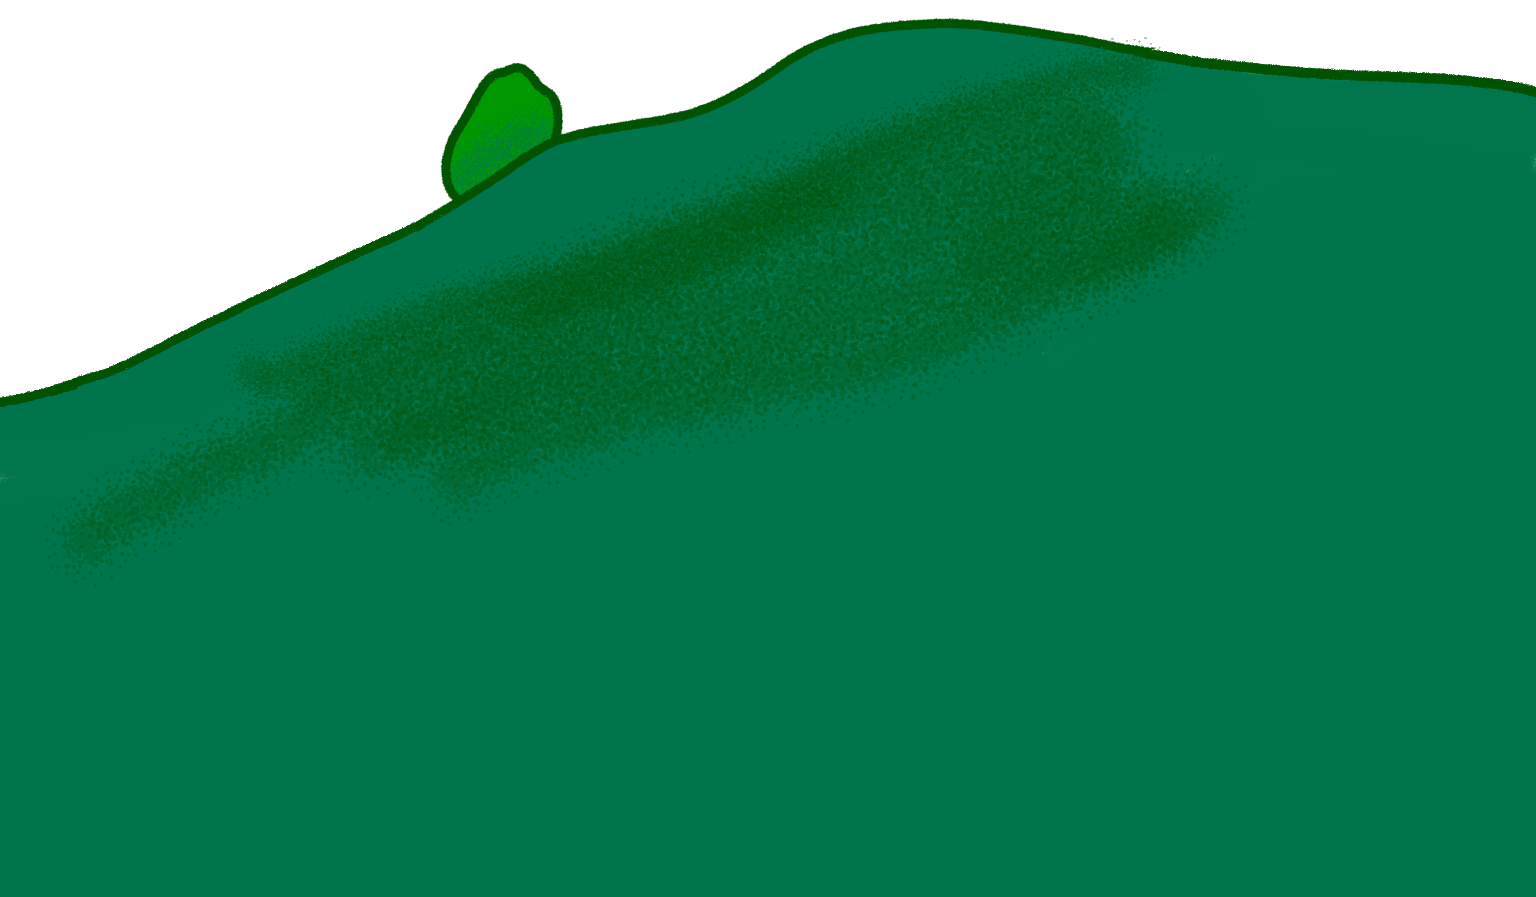
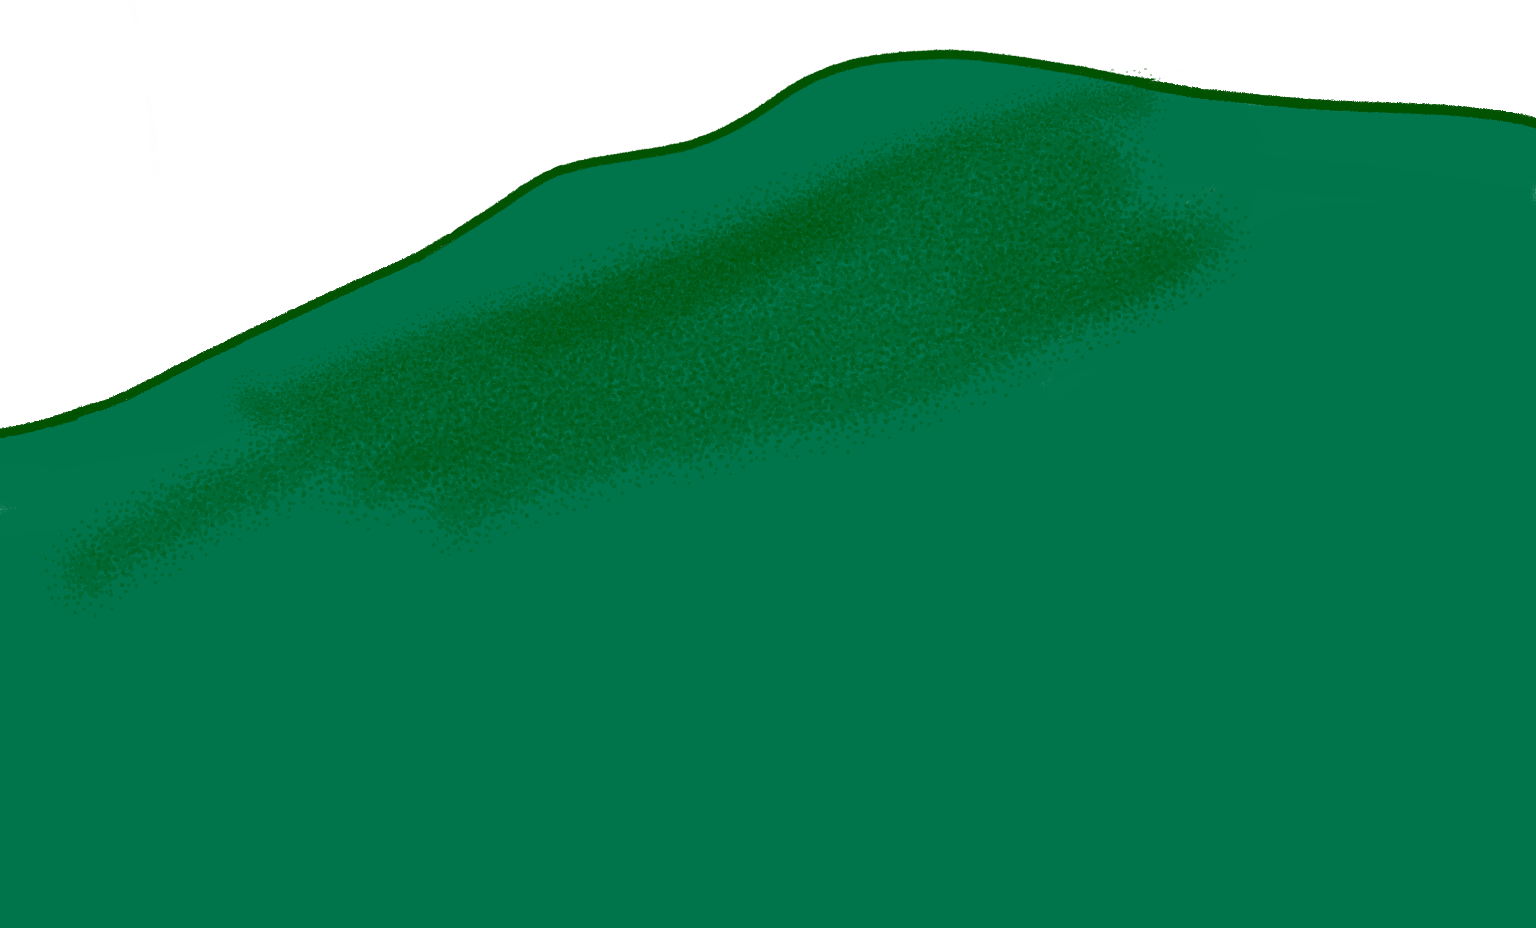
anim v 3.6

diff --git a/_svelte/src/App.svelte b/_svelte/src/App.svelte
@@ -12,7 +12,6 @@
       trigger: "main",
       start: "top top",
       end: "45% 100%",
-      markers: true,
       onEnterBack: function() { scene1.reverse() },
       onEnter: function () { scene1.play(0) },
     });
@@ -28,6 +27,7 @@
     };
     gsap.from("footer .bg0", { scrollTrigger: footerAnimProps, y: 100, duration: 1 })
     gsap.to("footer .bg1", { scrollTrigger: footerAnimProps, y: 10, duration: .5 })
+    gsap.to("footer .bgtree", { scrollTrigger: footerAnimProps, y: -200, duration: 1, delay: 1 })
   });
 </script>
 <template lang="pug">
@@ -36,10 +36,12 @@
     h1 hello #{name} :metal:
 
     div(id='bg-wrap')
+      .bg.bgtree
       - for (var i=0; i<4; i++)
         div(class='bg bg'+i)
 
     footer
+      .bg.bgtree
       - for (var i=0; i<2; i++)
         div(class='bg bg'+i)
 </template>
@@ -77,6 +79,10 @@
     height: 50%;
     position: absolute;
     top: -500px;
+
+    & > .bgtree {
+      top 10px 
+    }
   }
 
   .bg {
@@ -92,6 +98,10 @@
   for num in (0..3)
     .bg{num}
       background-image url('/images/bg'+num+'.png')
+
+  .bgtree
+    background-image url('/images/bgtree.png')
+    top 300px
 
 	@media (min-width: 640px)
 		main
